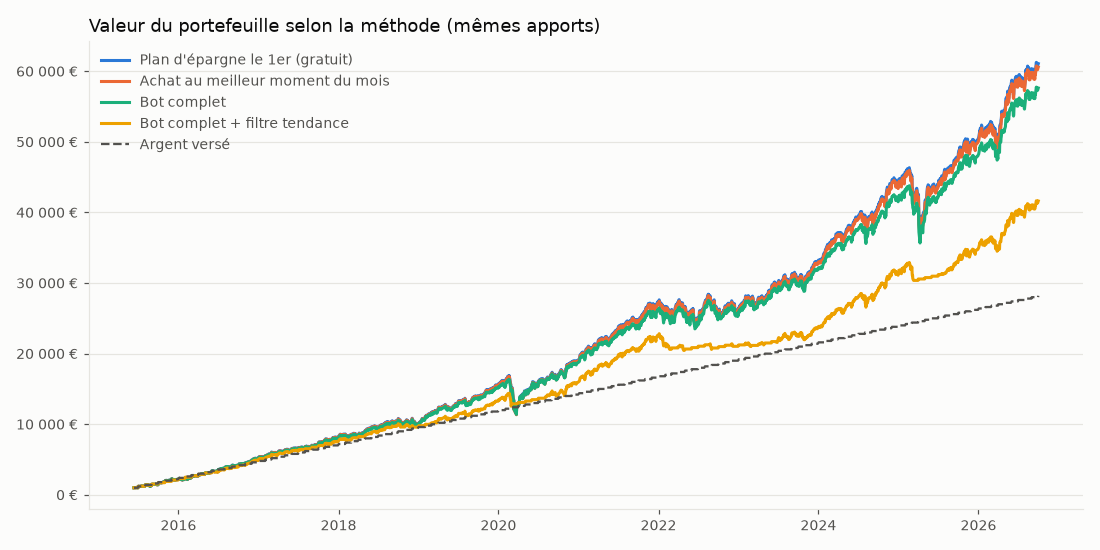
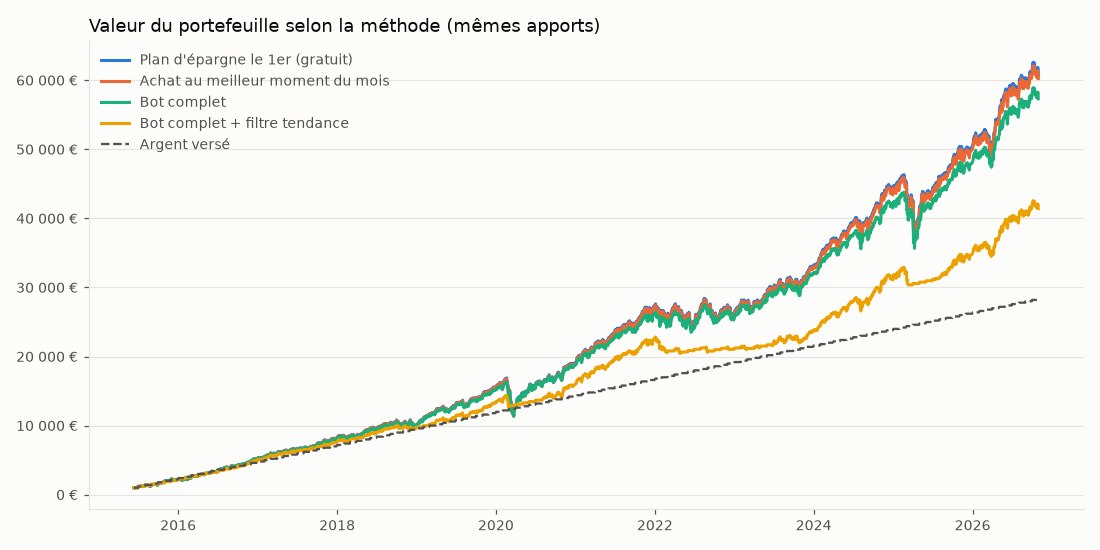
Backtest du 2026-11-01

diff --git a/rapports/backtest.md b/rapports/backtest.md
@@ -1,13 +1,13 @@
 # Backtest sur données réelles
 
-Période : 12/06/2015 → 01/10/2026. Actifs : iShares Core MSCI World  iShares Core MSCI EM IMI. Versement initial 1 000 € puis 200 € par mois. Frais Trade Republic : 1 € par ordre (le plan d'épargne est gratuit).
+Période : 12/06/2015 → 30/10/2026. Actifs : iShares Core MSCI World  iShares Core MSCI EM IMI. Versement initial 1 000 € puis 200 € par mois. Frais Trade Republic : 1 € par ordre (le plan d'épargne est gratuit).
 
 | Méthode | Valeur finale | Argent versé | Gain | Rendement annuel | Pire baisse | Ordres | Frais |
 |---|---:|---:|---:|---:|---:|---:|---:|
-| Plan d'épargne le 1er (gratuit) | 61 083 € | 28 200 € | +32 883 € | 10.82% | -33.3% | 204 | 0 € |
-| Achat au meilleur moment du mois | 60 581 € | 28 200 € | +32 381 € | 10.60% | -33.3% | 193 | 193 € |
-| Bot complet | 57 627 € | 28 200 € | +29 427 € | 9.97% | -31.2% | 171 | 171 € |
-| Bot complet + filtre tendance | 41 623 € | 28 200 € | +13 423 € | 4.83% | -20.9% | 176 | 176 € |
+| Plan d'épargne le 1er (gratuit) | 60 731 € | 28 200 € | +32 531 € | 10.69% | -33.3% | 205 | 0 € |
+| Achat au meilleur moment du mois | 60 240 € | 28 200 € | +32 040 € | 10.46% | -33.3% | 194 | 194 € |
+| Bot complet | 57 321 € | 28 200 € | +29 121 € | 9.84% | -31.2% | 171 | 171 € |
+| Bot complet + filtre tendance | 41 411 € | 28 200 € | +13 211 € | 4.75% | -20.9% | 176 | 176 € |
 
 ![Backtest](backtest.png)
 
@@ -17,22 +17,22 @@ Période : 12/06/2015 → 01/10/2026. Actifs : iShares Core MSCI World  iShares 
 
 | Score | Jours | Rendement moyen à 3 mois | à 12 mois | Positif à 12 mois | Pire cas à 12 mois |
 |---|---:|---:|---:|---:|---:|
-| 0-20 (cher) | 2 686 | +2.0% | +11.1% | 81% | -37.1% |
-| 20-40 | 4 222 | +2.4% | +9.1% | 76% | -42.2% |
-| 40-60 | 4 363 | +2.6% | +8.7% | 74% | -44.7% |
+| 0-20 (cher) | 2 696 | +2.0% | +11.1% | 81% | -37.1% |
+| 20-40 | 4 230 | +2.4% | +9.1% | 76% | -42.2% |
+| 40-60 | 4 365 | +2.6% | +8.7% | 74% | -44.7% |
 | 60-80 | 3 995 | +2.2% | +8.3% | 70% | -46.3% |
 | 80-100 (soldé) | 3 094 | +1.8% | +10.4% | 71% | -48.8% |
-| Tous les jours | 18 360 | +2.2% | +9.3% | 74% | -48.8% |
+| Tous les jours | 18 380 | +2.2% | +9.3% | 74% | -48.8% |
 
 ## Le score sur iShares Core MSCI World
 
 | Score | Jours | Rendement moyen à 3 mois | à 12 mois | Positif à 12 mois | Pire cas à 12 mois |
 |---|---:|---:|---:|---:|---:|
-| 0-20 (cher) | 637 | +2.3% | +8.9% | 82% | -14.8% |
-| 20-40 | 780 | +2.3% | +10.9% | 85% | -18.5% |
-| 40-60 | 711 | +2.7% | +12.1% | 86% | -13.1% |
+| 0-20 (cher) | 646 | +2.3% | +9.1% | 82% | -14.8% |
+| 20-40 | 789 | +2.3% | +11.0% | 85% | -18.5% |
+| 40-60 | 714 | +2.7% | +12.2% | 86% | -13.1% |
 | 60-80 | 749 | +3.9% | +16.4% | 90% | -8.7% |
 | 80-100 (soldé) | 494 | +6.0% | +18.0% | 95% | -4.5% |
-| Tous les jours | 3 371 | +3.2% | +13.1% | 87% | -18.5% |
+| Tous les jours | 3 392 | +3.2% | +13.1% | 87% | -18.5% |
 
 Les performances passées ne préjugent pas des performances futures.
